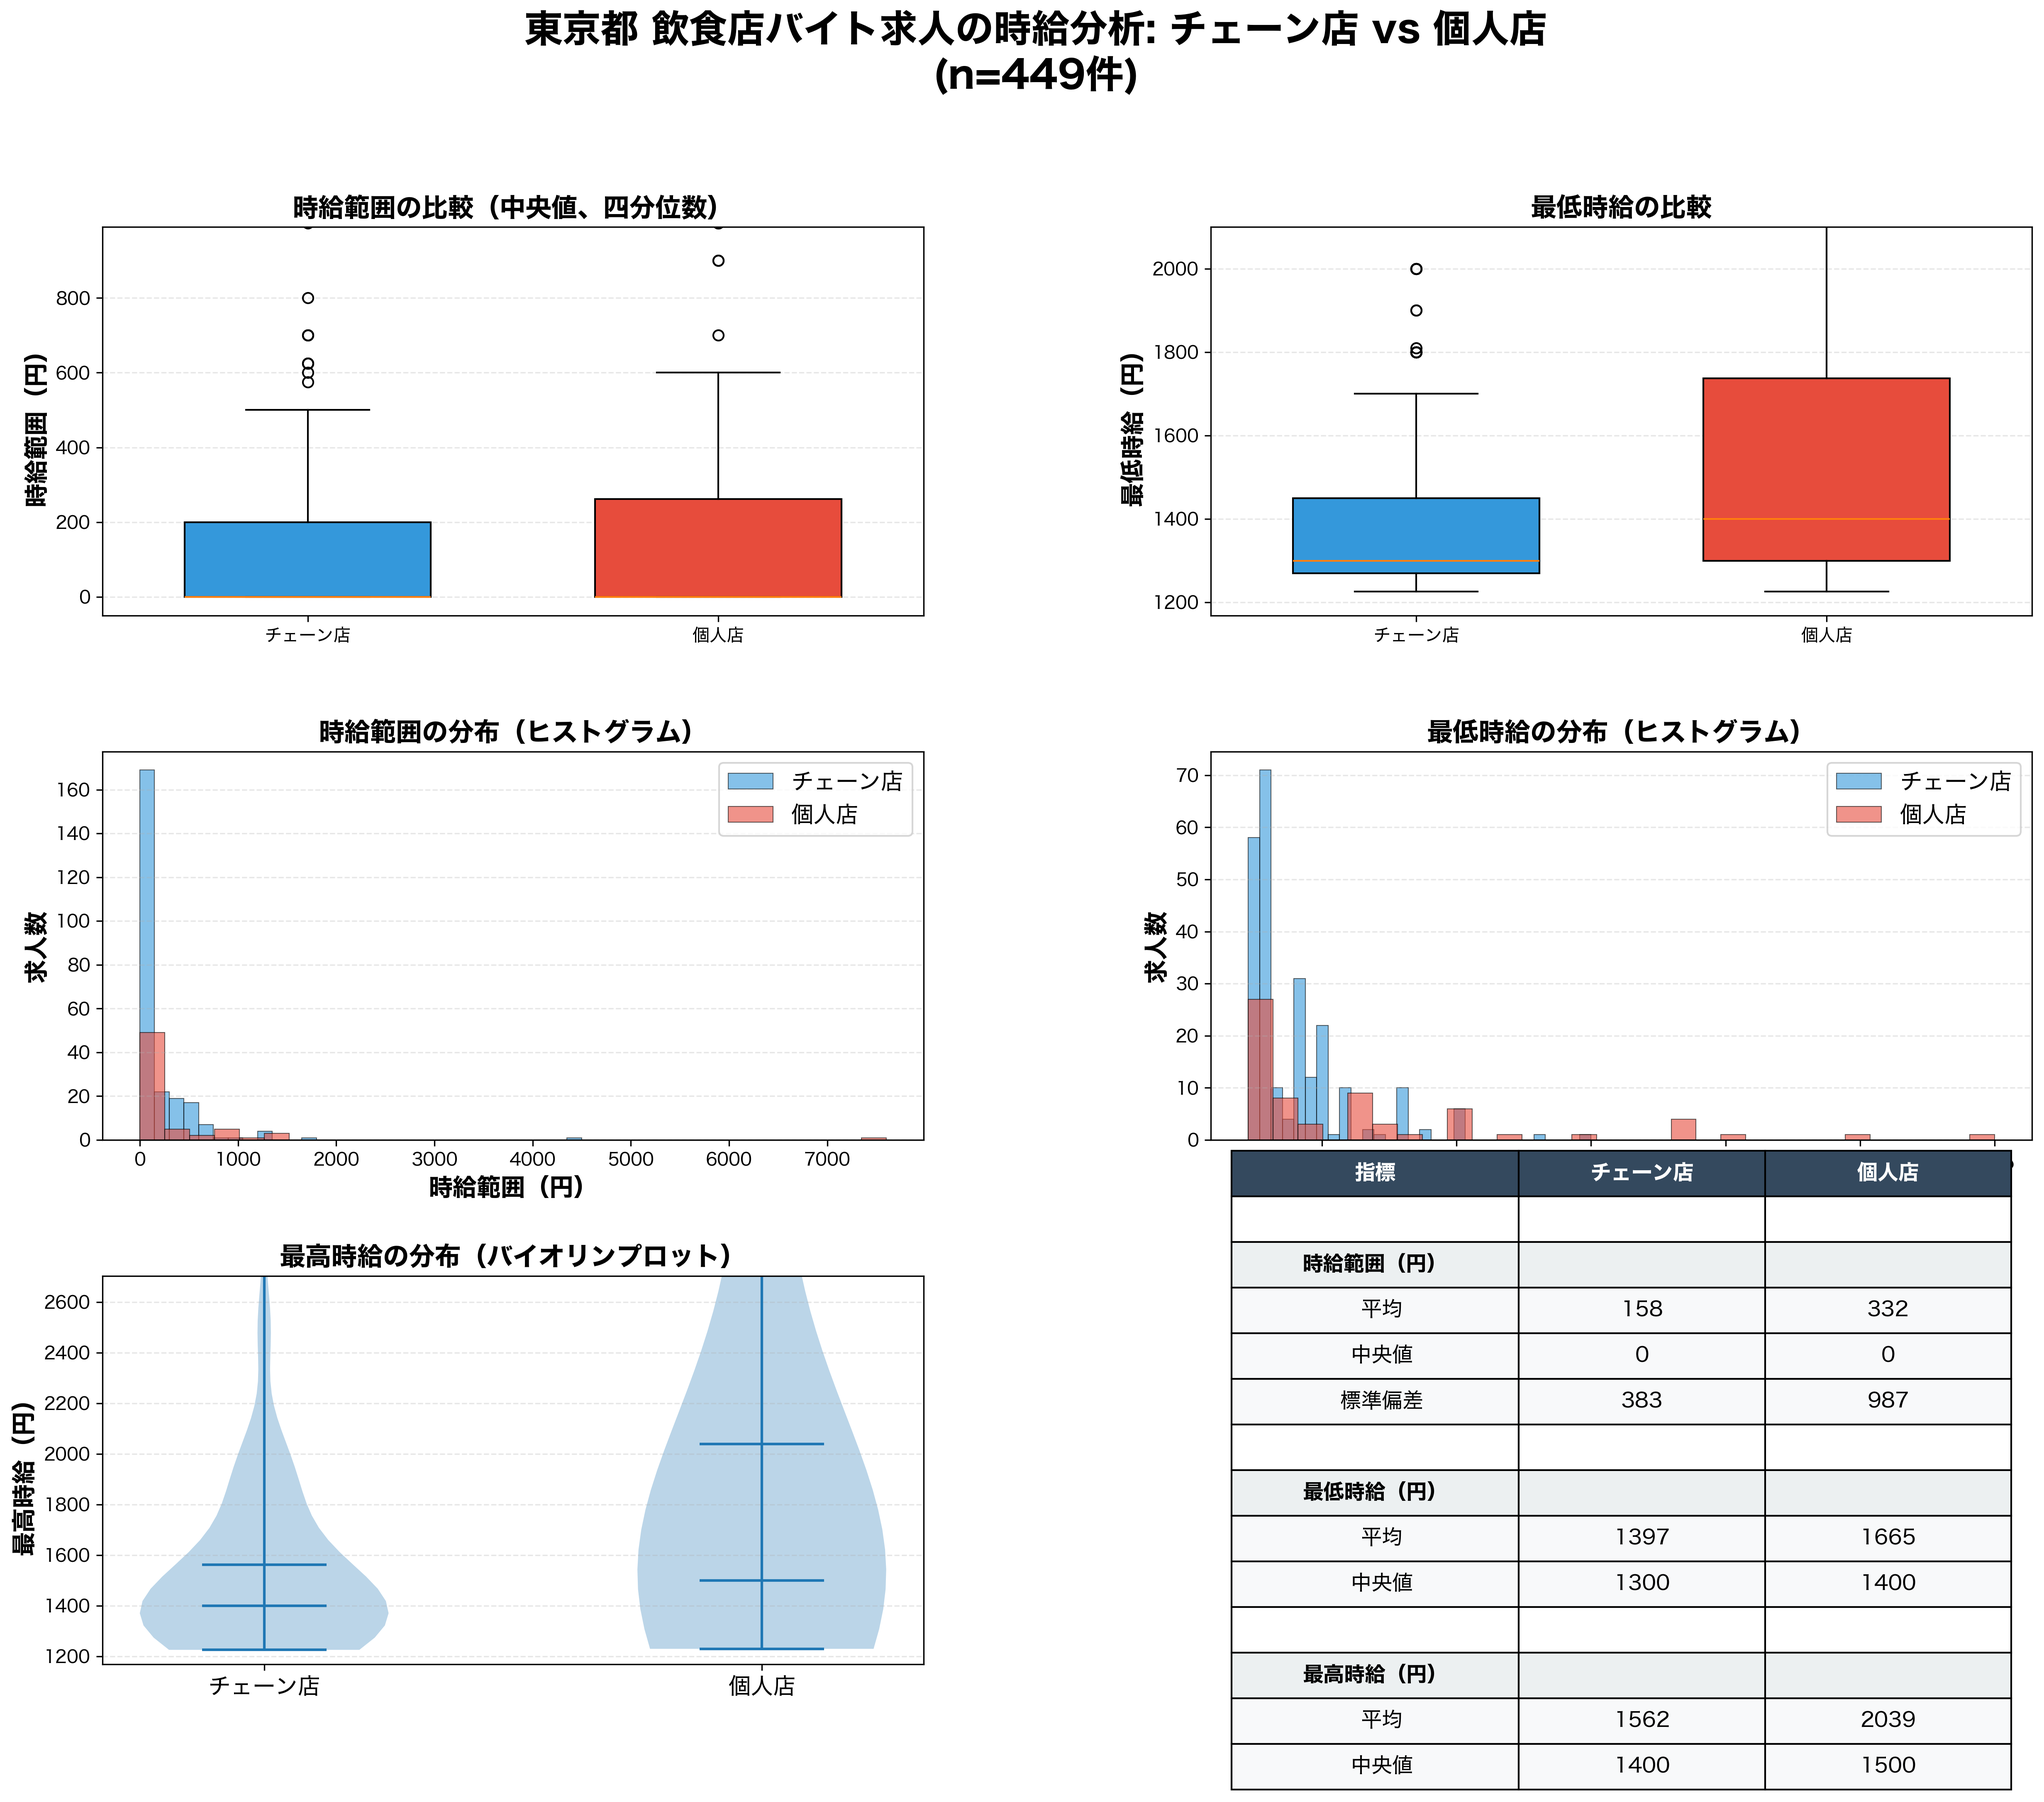
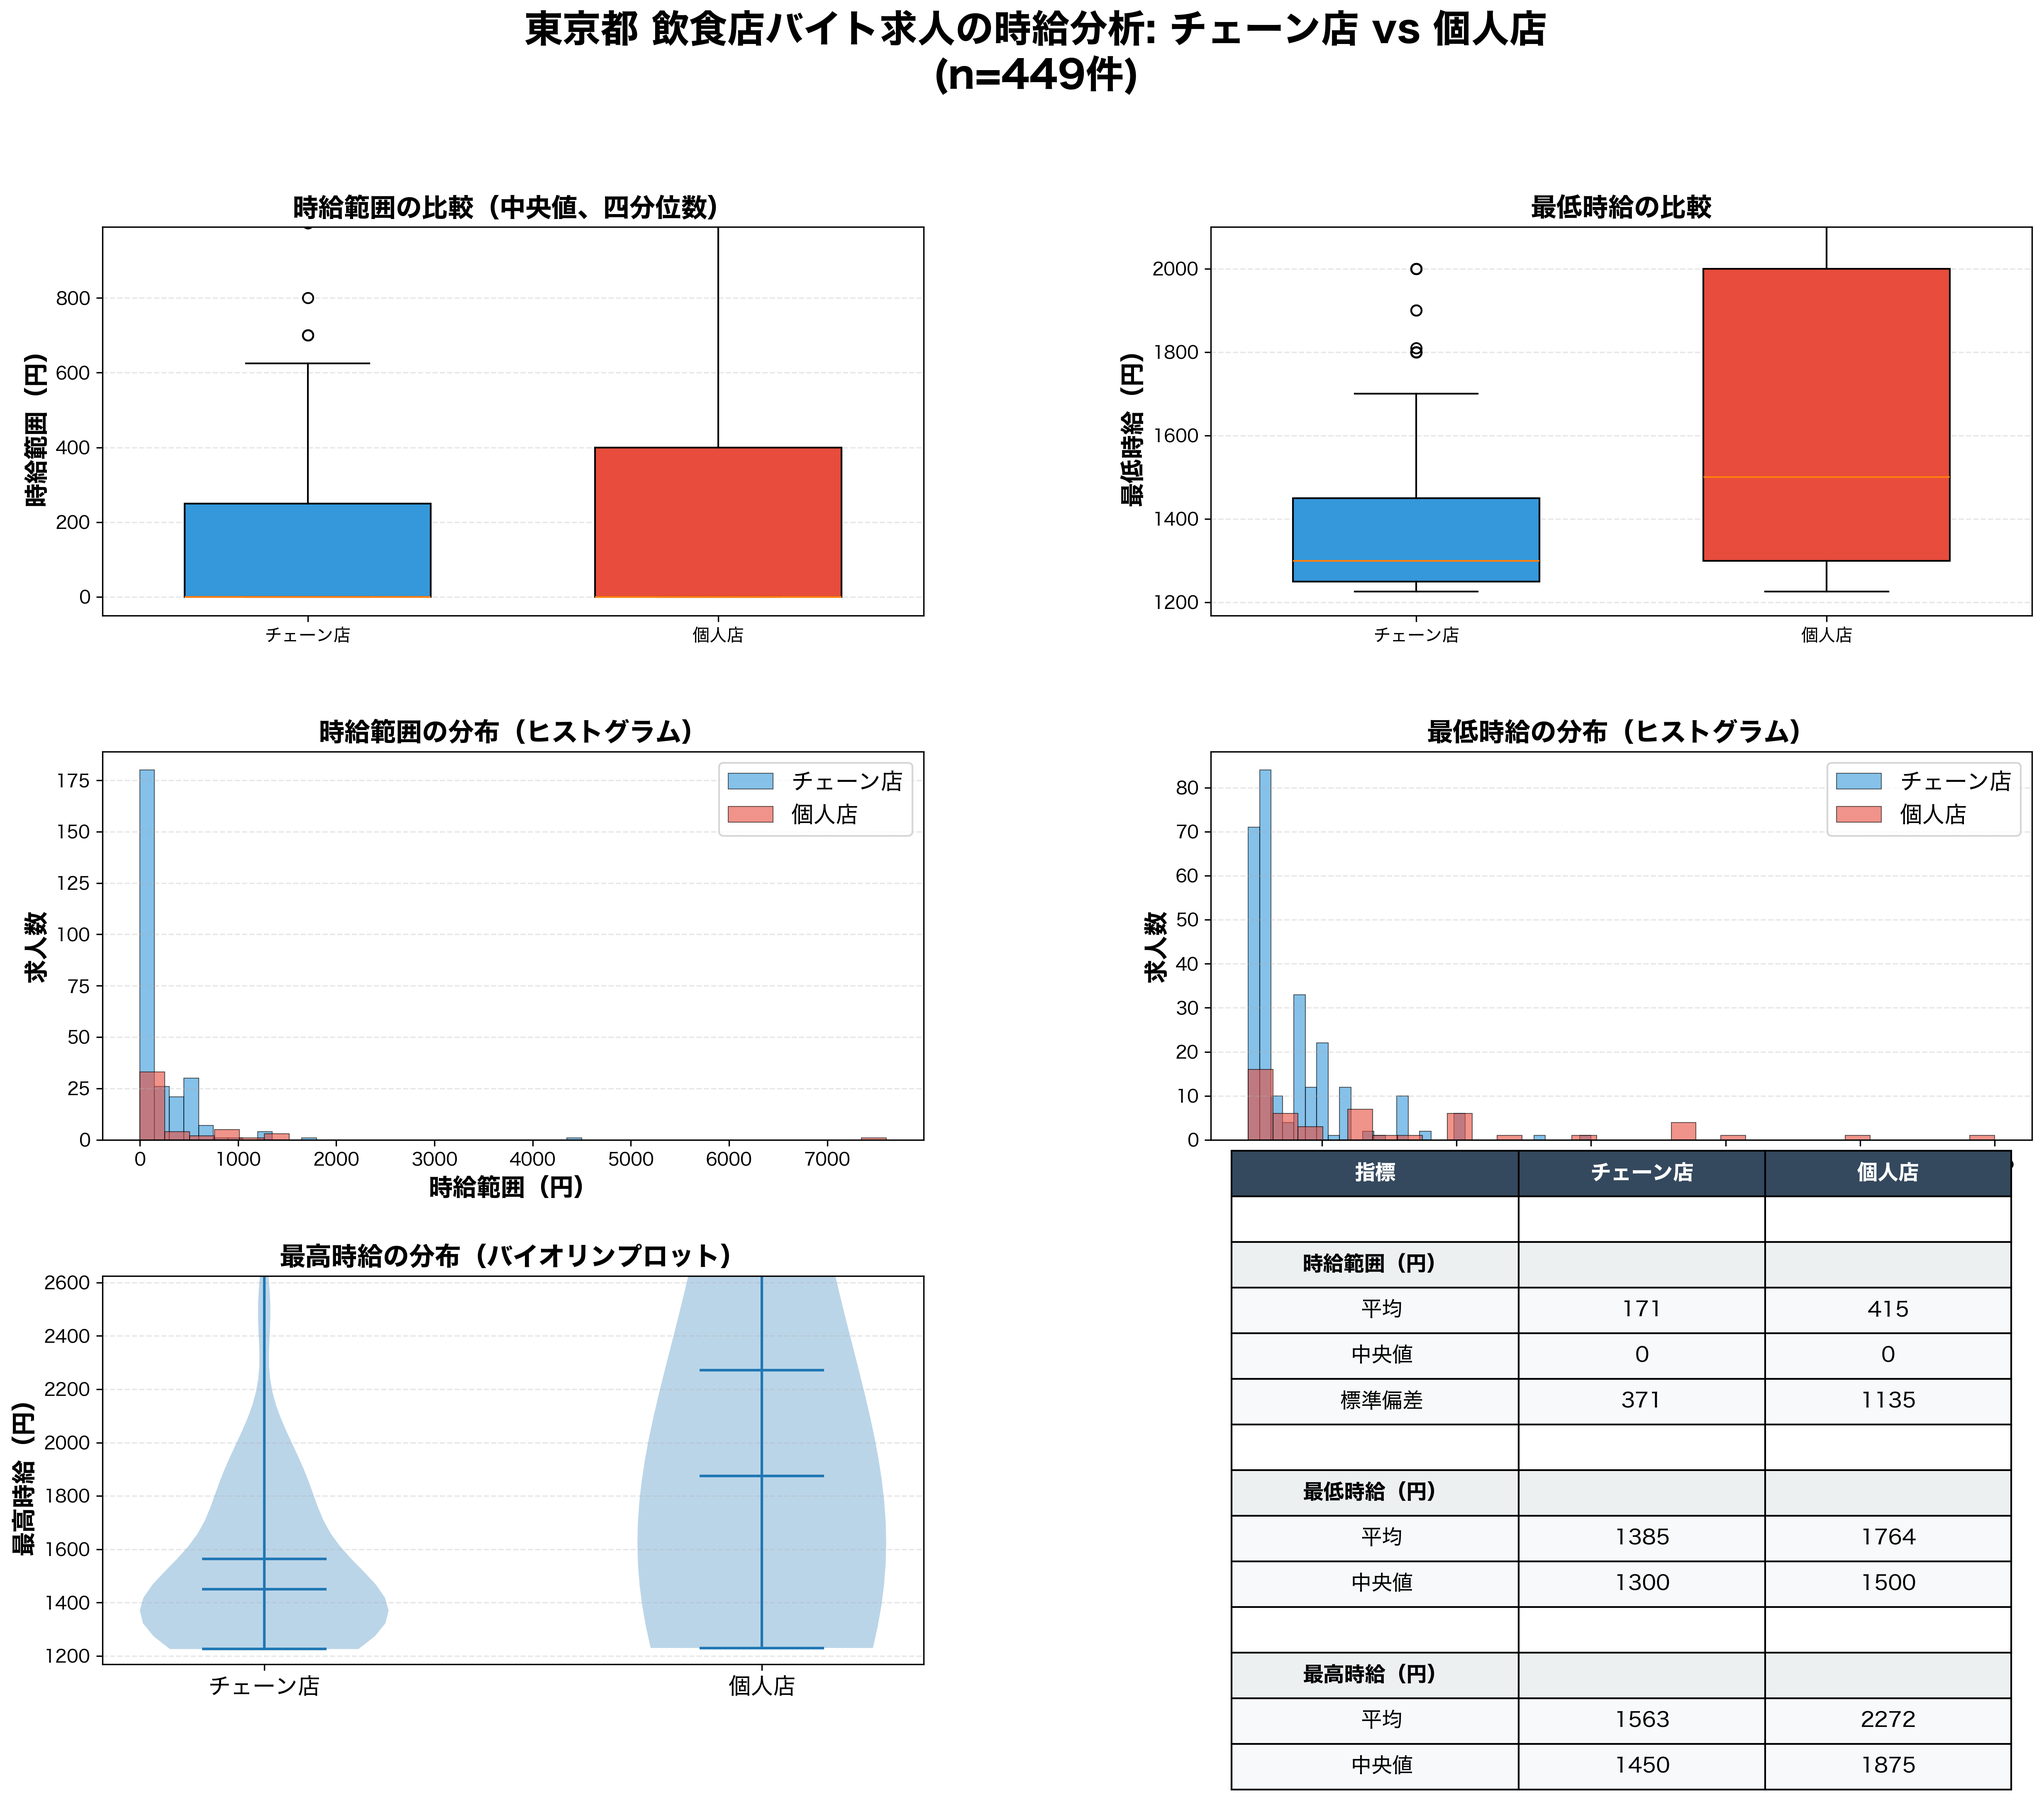
「〇〇店」もチェーン店として分析するなど、分析ロジックを少々変更

diff --git a/lecture-7/analyze_multipage.py b/lecture-7/analyze_multipage.py
@@ -8,6 +8,7 @@ import numpy as np
 import matplotlib.pyplot as plt
 import seaborn as sns
 from scipy import stats
+import re
 
 # 日本語フォント設定
 plt.rcParams['font.sans-serif'] = ['Hiragino Sans', 'Yu Gothic', 'Meiryo', 'Takao', 'IPAexGothic', 'IPAPGothic']
@@ -45,6 +46,38 @@ def calculate_wage_range(df):
     return df
 
 
+STORE_SUFFIX_PATTERN = re.compile(r'(店|支店|本店|総本店)$')
+
+
+def has_store_suffix(text):
+    if not text:
+        return False
+    name = re.sub(r"\s+", "", text)
+    return bool(STORE_SUFFIX_PATTERN.search(name))
+
+
+def reclassify_store_type(df):
+    """店名サフィックスと件数を使ってチェーンを再判定する"""
+    df = df.copy()
+    df['__name_norm'] = df['company_name'].fillna('').str.replace(r'\s+', '', regex=True)
+    name_counts = df['__name_norm'].value_counts()
+
+    def classify_row(row):
+        base = row['store_type']
+        if base == 'チェーン店':
+            return base
+        has_suffix = has_store_suffix(row['company_name']) or has_store_suffix(row['title'])
+        if has_suffix and name_counts.get(row['__name_norm'], 0) >= 2:
+            return 'チェーン店（店名推定）'
+        if has_suffix:
+            return '不明（店名あり）'
+        return base
+
+    df['store_type'] = df.apply(classify_row, axis=1)
+    df = df.drop(columns=['__name_norm'])
+    return df
+
+
 def analyze_by_store_type(df):
     """
     店舗タイプ別の統計分析
@@ -53,8 +86,9 @@ def analyze_by_store_type(df):
     print("=== チェーン店 vs 個人店 統計分析 ===")
     print("=" * 70)
     
-    # チェーン店と個人店のデータを抽出
-    chain_stores = df[df['store_type'] == 'チェーン店'].copy()
+    # チェーン店と個人店のデータを抽出（店名推定もチェーン扱い）
+    chain_mask = df['store_type'].fillna('').str.startswith('チェーン店')
+    chain_stores = df[chain_mask].copy()
     individual_stores = df[df['store_type'].isin(['個人店', '個人店（推定）'])].copy()
     
     print(f"\n【サンプルサイズ】")
@@ -314,6 +348,9 @@ def main():
     
     # 時給範囲を計算
     df = calculate_wage_range(df)
+
+    # 店名サフィックスを加味した再分類
+    df = reclassify_store_type(df)
     
     # 統計分析
     chain_stores, individual_stores = analyze_by_store_type(df)
